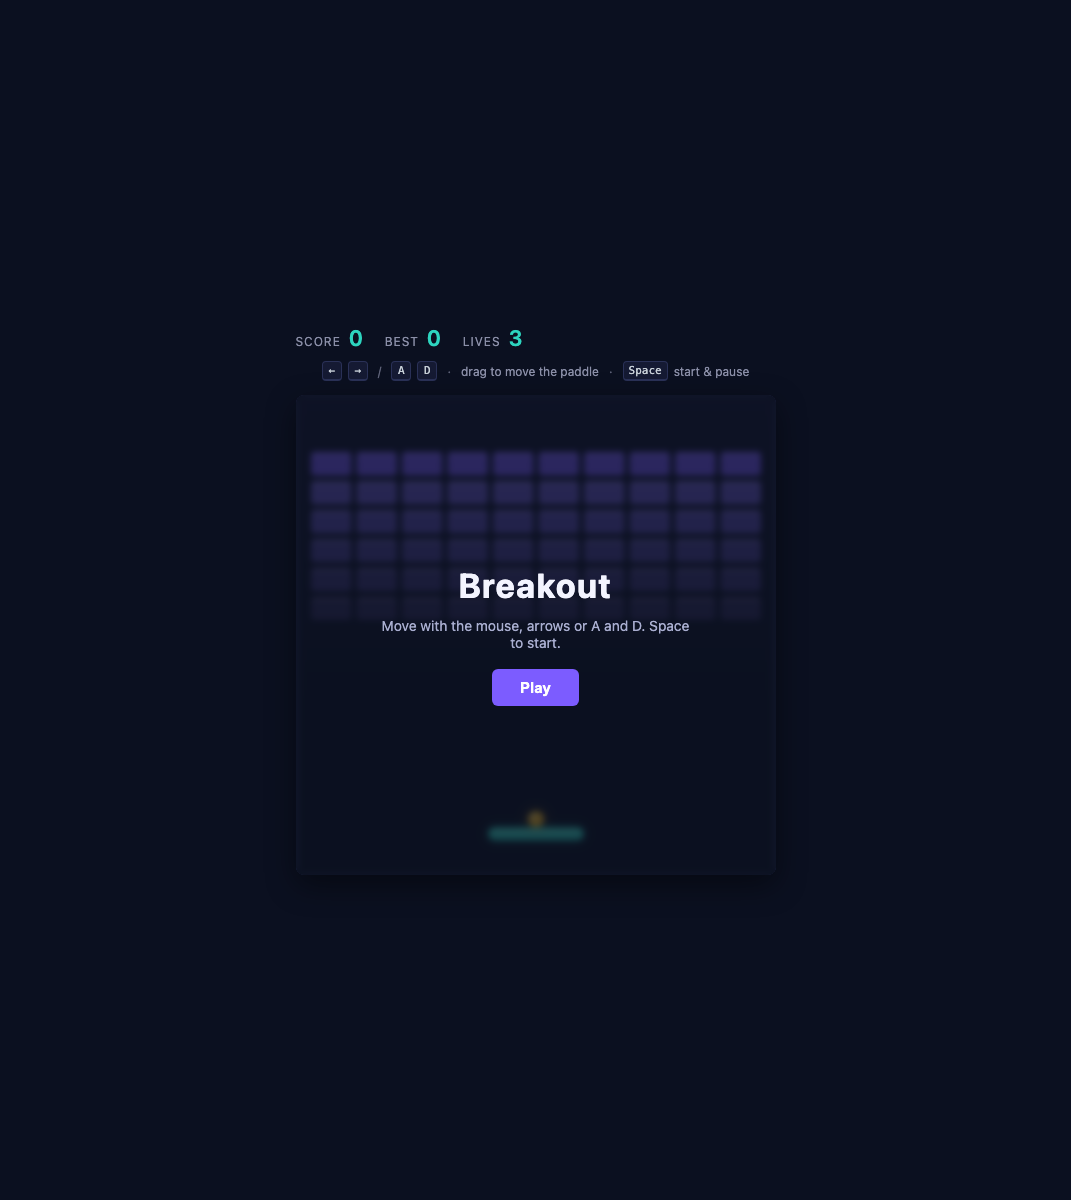
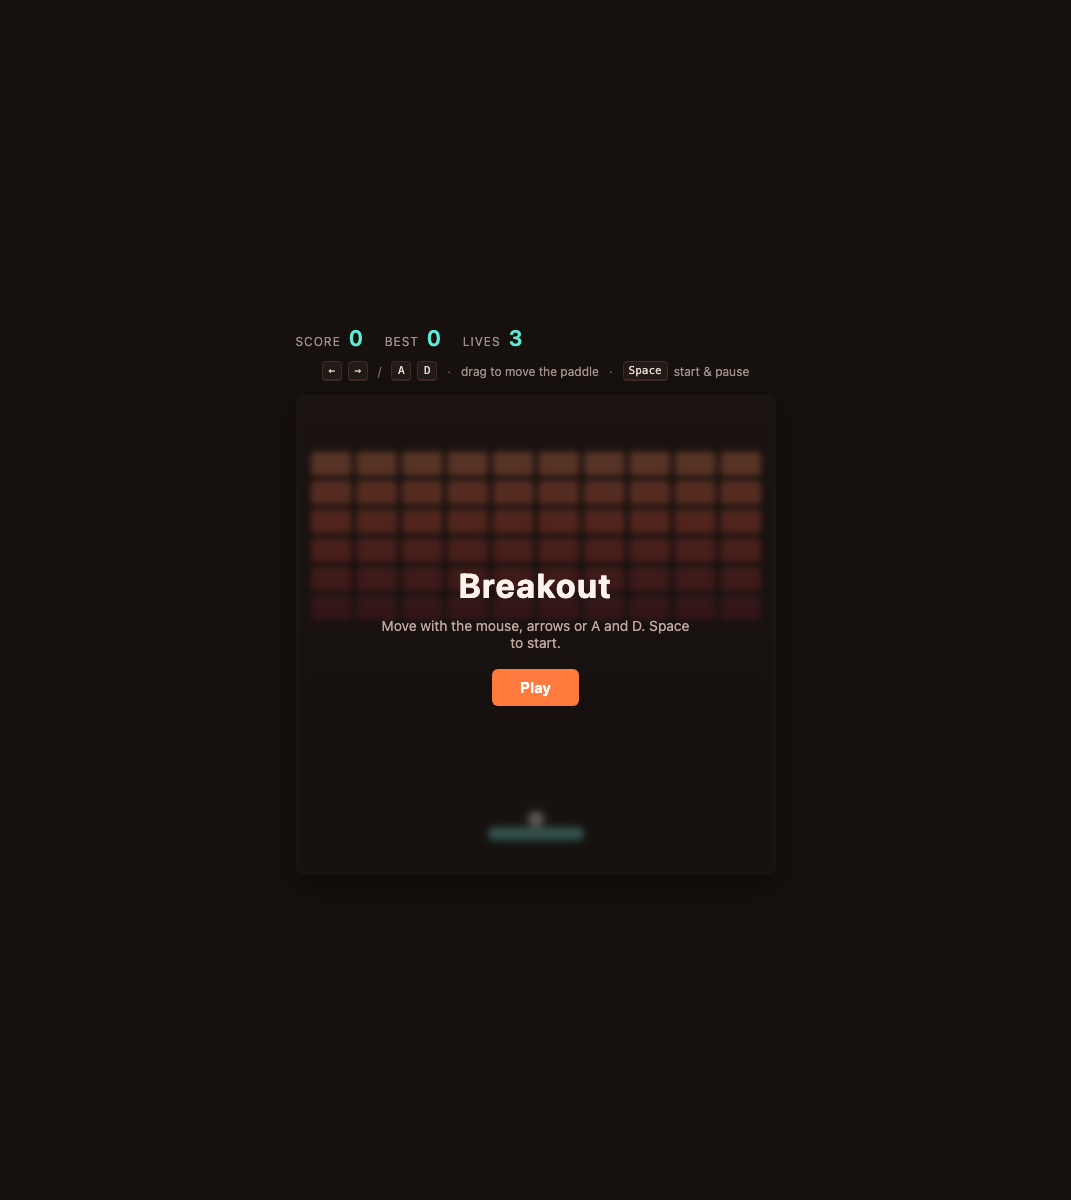
refactor: retune the breakout palette to a warm ember scheme
- swap the violet brick ramp for a coral-to-ember ramp on a warm
  charcoal board, since the two lowest violet rows sat within a hair of
  the old navy background and the wall lost its bottom edge
- keep the paddle and ball as the only cool colours on the board so the
  ball stays the most findable thing on screen at speed
- move the backdrop gradient's fade into the palette as
  backdropGlowFade, because a hardcoded transparent violet survived the
  swap and would have tinted the top of the board
- retune the stylesheet to match, including the HUD, kbd chips, overlay
  and start button
- regenerate the four screenshots and rebuild the registry

Changed region(s): [[0.2773, 0.37, 0.7395, 0.5858], [0.2773, 0.2775, 0.4314, 0.3392], [0.5854, 0.2775, 0.6471, 0.3392]]

diff --git a/extensions/axon.breakout/webview/styles/game.css b/extensions/axon.breakout/webview/styles/game.css
@@ -12,10 +12,11 @@ body {
   display: grid;
   place-items: center;
   font-family: system-ui, -apple-system, sans-serif;
-  /* Violet rather than Snake's near-black, so the two games read as different
-     products from the first pixel even though the layout is the same. */
-  background: #0b1020;
-  color: #e6edf3;
+  /* Warm charcoal rather than Snake's near-black, so the two games read as different
+     products from the first pixel even though the layout is the same. Kept in step
+     with COLORS.background by hand; the board's canvas paints over this anyway. */
+  background: #16110f;
+  color: #f5efe9;
 }
 
 .shell {
@@ -49,15 +50,15 @@ body {
   font-size: 12px;
   text-transform: uppercase;
   letter-spacing: 0.08em;
-  color: #8b8fa8;
+  color: #a1908a;
 }
 
 .value {
   font-size: 22px;
   font-weight: 600;
   font-variant-numeric: tabular-nums;
-  /* Teal, the paddle's colour, so the HUD and the thing being tracked share a hue. */
-  color: #2dd4bf;
+  /* Mint, the paddle's colour, so the HUD and the thing being tracked share a hue. */
+  color: #5eead4;
 }
 
 .hint {
@@ -66,7 +67,7 @@ body {
   justify-content: center;
   gap: 6px;
   font-size: 12px;
-  color: #8b8fa8;
+  color: #a1908a;
 }
 
 .hint .sep {
@@ -81,11 +82,11 @@ kbd {
   height: 20px;
   padding: 0 5px;
   border-radius: 4px;
-  background: #151a33;
-  border: 1px solid #2a3157;
+  background: #241a17;
+  border: 1px solid #3d2b24;
   border-bottom-width: 2px;
   font-size: 11px;
-  color: #c9d1d9;
+  color: #e2d7cf;
 }
 
 .board-wrap {
@@ -104,8 +105,8 @@ kbd {
      a drag for scrolling, pinch zoom, or pull to refresh. */
   touch-action: none;
   border-radius: 8px;
-  background: #0b1020;
-  border: 1px solid #2a3157;
+  background: #16110f;
+  border: 1px solid #3d2b24;
   box-shadow: 0 10px 30px rgba(0, 0, 0, 0.45);
 }
 
@@ -118,7 +119,7 @@ kbd {
   justify-content: center;
   gap: 12px;
   border-radius: 8px;
-  background: rgba(11, 16, 32, 0.72);
+  background: rgba(22, 17, 15, 0.72);
   backdrop-filter: blur(3px);
   /* The overlay covers the whole board and input is bound to the canvas, so without
      this it would swallow every pointer event in the idle, serving, paused, and game
@@ -131,7 +132,7 @@ kbd {
   font-size: 34px;
   font-weight: 700;
   letter-spacing: 0.04em;
-  color: #f3f4ff;
+  color: #fdf3ec;
 }
 
 .overlay .message {
@@ -139,7 +140,7 @@ kbd {
   margin: 0;
   text-align: center;
   font-size: 14px;
-  color: #a9aed0;
+  color: #bfa79c;
 }
 
 #start {
@@ -147,7 +148,7 @@ kbd {
   padding: 10px 28px;
   border: 0;
   border-radius: 6px;
-  background: #7c5cff;
+  background: #ff7a3d;
   color: #ffffff;
   font-size: 15px;
   font-weight: 600;
@@ -157,10 +158,10 @@ kbd {
 }
 
 #start:hover {
-  background: #8f74ff;
+  background: #ff9159;
 }
 
 #start:focus-visible {
-  outline: 2px solid #2dd4bf;
+  outline: 2px solid #5eead4;
   outline-offset: 2px;
 }

diff --git a/extensions/axon.breakout/webview/src/core/config.js b/extensions/axon.breakout/webview/src/core/config.js
@@ -68,21 +68,32 @@ export const ROW_SCORES = [1, 2, 3, 4, 5, 6];
 
 // Breakout's own palette. Deliberately disjoint from Snake's blues and reds so
 // the two games read as separate products while sharing the same visual skeleton.
+//
+// The wall is a warm coral-to-ember ramp and the background is a warm charcoal
+// rather than the cool navy it used to be. Cool brick colours on a cool board made
+// the lower rows sit almost on top of the background; warm on warm keeps every row
+// separated, and leaves the two cool accents, the mint paddle and the near-white
+// ball, as the only things on screen that are not a shade of red or orange. That is
+// what makes the ball findable at speed, since it is the one thing the player has to
+// track continuously.
 export const COLORS = {
-  background: "#0b1020",
-  backdropGlow: "rgba(124, 92, 255, 0.08)",
-  playfieldEdge: "#1b2140",
-  paddle: "#2dd4bf",
-  paddleHighlight: "#5eead4",
-  paddleGlow: "rgba(45, 212, 191, 0.4)",
-  ball: "#fbbf24",
-  ballHighlight: "#fde68a",
-  ballGlow: "rgba(251, 191, 36, 0.45)",
-  brickRow0: "#7c5cff",
-  brickRow1: "#6d5bd0",
-  brickRow2: "#5e4fb8",
-  brickRow3: "#4f4499",
-  brickRow4: "#40387a",
-  brickRow5: "#322d5c",
-  brickEdge: "rgba(255, 255, 255, 0.14)",
+  background: "#16110f",
+  backdropGlow: "rgba(255, 122, 61, 0.07)",
+  // The backdrop gradient's second stop. Kept beside backdropGlow so the fade cannot
+  // be left behind holding the palette's previous hue.
+  backdropGlowFade: "rgba(255, 122, 61, 0)",
+  playfieldEdge: "#2b1f1a",
+  paddle: "#5eead4",
+  paddleHighlight: "#99f6e4",
+  paddleGlow: "rgba(94, 234, 212, 0.4)",
+  ball: "#fdfaf5",
+  ballHighlight: "#ffffff",
+  ballGlow: "rgba(253, 250, 245, 0.5)",
+  brickRow0: "#ff8a5c",
+  brickRow1: "#f9714c",
+  brickRow2: "#e8563f",
+  brickRow3: "#c93f36",
+  brickRow4: "#a32e30",
+  brickRow5: "#7d222b",
+  brickEdge: "rgba(255, 236, 214, 0.16)",
 };

diff --git a/extensions/axon.breakout/webview/src/render/renderer.js b/extensions/axon.breakout/webview/src/render/renderer.js
@@ -60,11 +60,15 @@ export function createRenderer(canvas) {
     ctx.fillStyle = COLORS.background;
     ctx.fillRect(0, 0, cssSize, cssSize);
 
-    // A wash of violet from the top, where the wall sits, so the empty lower
+    // A wash of warmth from the top, where the wall sits, so the empty lower
     // half reads as depth rather than a flat void.
+    //
+    // The fade carries its own colour instead of being a literal here, because a
+    // hardcoded transparent tint goes stale the moment the palette changes and
+    // leaves the old hue bleeding out of the top of the board.
     const glow = ctx.createLinearGradient(0, 0, 0, cssSize);
     glow.addColorStop(0, COLORS.backdropGlow);
-    glow.addColorStop(0.65, "rgba(124, 92, 255, 0)");
+    glow.addColorStop(0.65, COLORS.backdropGlowFade);
     ctx.fillStyle = glow;
     ctx.fillRect(0, 0, cssSize, cssSize);
   }
